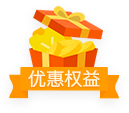
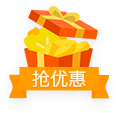
抢优惠调整

diff --git a/src/components/details/active.vue b/src/components/details/active.vue
@@ -14,7 +14,7 @@
             </div>
         </div>
         <div class="active_wrap_content">
-            <div class="coupon" v-for="item in productlist" :key="item.id">
+            <div class="coupon" v-for="item in productlist" :key="item.id" v-if="item.bindingQuantity<item.combinationCount">
                 <div class="coupon_icon">
                     <img :src="item.img" alt="" class="icon_img">
                 </div>
@@ -27,7 +27,7 @@
                     <div class="coupon_button_wrap">
                         <div class="progress">
                             <p class="progress_contain">
-                                <span class="progress_bar" :style="'width:'+item.bindingQuantity/baseCount*100+'%'"></span>
+                                <span class="progress_bar" :style="'width:'+item.bindingQuantity/item.combinationCount*100+'%'"></span>
                             </p>
                             <p>已抢 <big class="progress_persents">{{item.bindingQuantity}}%</big> </p>
                         </div>
@@ -35,16 +35,16 @@
                     </div>
                 </div>
             </div>
-            <div class="coupon" >
+            <div class="coupon" v-for="item in productlist" :key="item.id" v-if="item.bindingQuantity>=item.combinationCount">
                 <div class="coupon_icon">
                     <img src="@/assets/coupon.png" alt="" class="icon_img">
                 </div>
                 <div class="coupon_content">
                     <p class="coupon_title">
                          <span class="icon_1 down">家乐福</span>
-                         <span class="icon_2">多力葵花籽调和油1.8L</span>
+                         <span class="icon_2">{{item.brand.substring(5,item.brand.length)}}</span>
                     </p>
-                    <p class="coupon_explain">8.8折优惠券（原价19.8元，用券后17.5元）</p>
+                    <p class="coupon_explain">{{item.name}}</p>
                     <div class="coupon_button_wrap">
                         <div class="progress">
                             <p class="progress_contain down">

diff --git a/src/assets/detailstyle/active.css b/src/assets/detailstyle/active.css
@@ -56,19 +56,23 @@
 }
 .active_wrap_content .coupon{
     width: 90%;
-    height: 2.2rem;
-    padding: 0.2rem;
+    height: 2.5rem;
+    padding: 0.2rem 0.15rem;
     margin:0 auto 0.3rem auto; 
+    background-image: url('../coupon_background.png');
+    background-repeat: no-repeat;
+    background-size: 100% 100%;
+
 }
 .active_wrap_content .coupon_icon{
-    width: 28%;
+    width: 30%;
     height: 100%;
     display: inline-block;
     vertical-align: top;
 }
 .active_wrap_content .coupon_content{
-    width: 65%;
-    margin-left: 0.25rem;
+    width: 60%;
+    margin-left: 0.40rem;
     display: inline-block;
     vertical-align: top;
 }
@@ -86,7 +90,7 @@
     color: white;
     border-radius: 8px;
     padding:0.04rem 0.18rem; 
-    margin-right: 0.14rem;
+    margin-right: 0.05rem;
 }
 .coupon_content .icon_2,.coupon_content .icon_2{
     vertical-align: middle;

diff --git a/src/components/details/home.vue b/src/components/details/home.vue
@@ -1,5 +1,5 @@
-<template>
-  <div style="width:100% ; height:100%">
+<template> 
+  <div style="width:100% ; height:100%" >
     <pull-to :top-load-method="onRefresh" :top-config="pullRefreshConfig">
       <div class="bestBox">
         <div  class="home_wrap">
@@ -327,10 +327,10 @@
 <style>
     .floatbutton{
     position:fixed;
-    bottom: 120px;
-    right: 50px;
-    width: 1.2rem;
-    height:1rem;
+    bottom: 150px;
+    right: 40px;
+    width: 1.3rem;
+    height:1.2rem;
     z-index: 100000;
     transition: all 0 ;
   }
